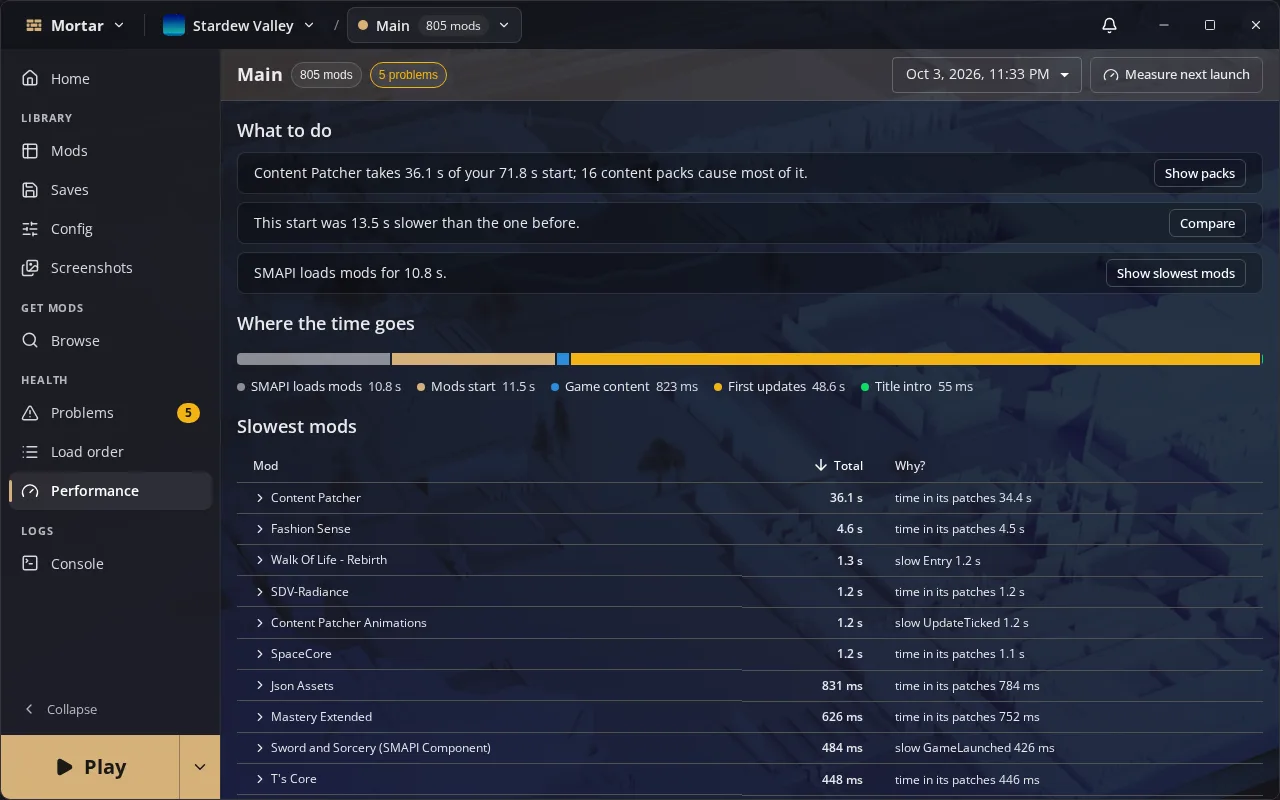
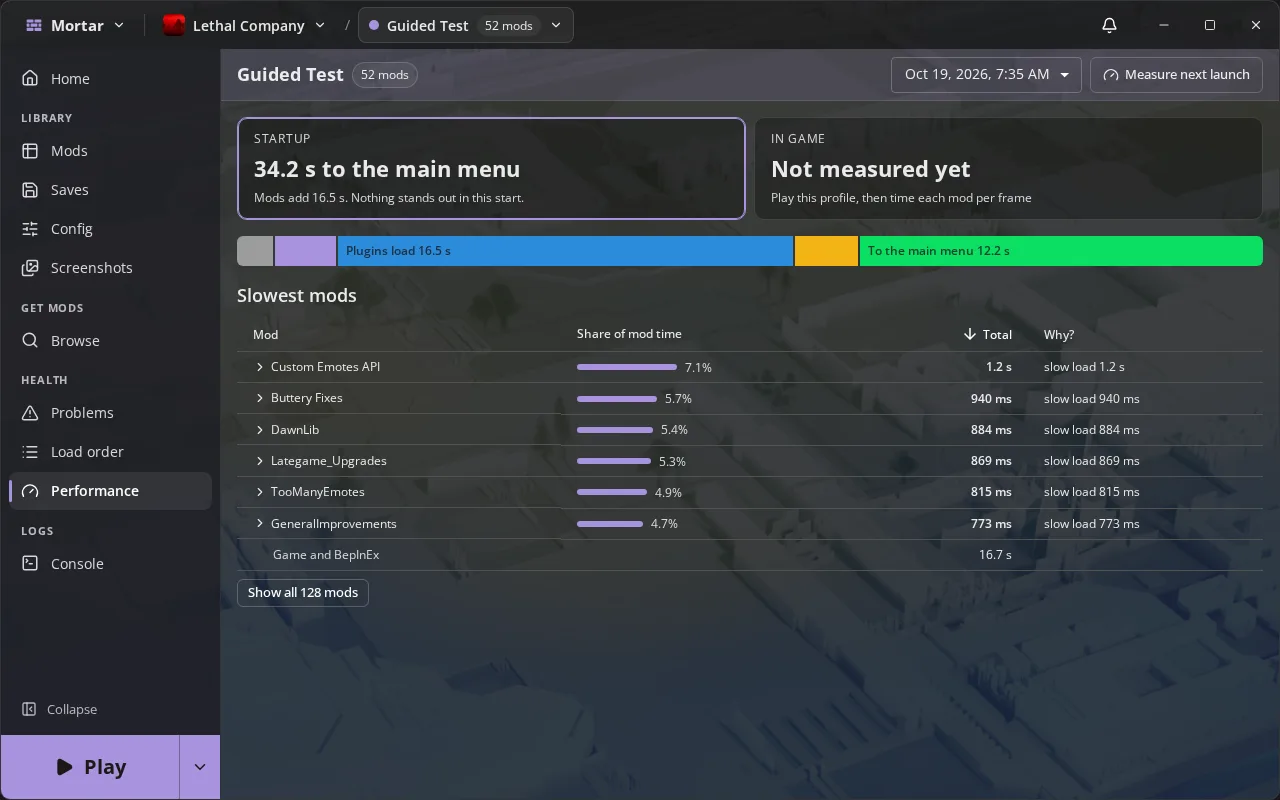
docs(site): 0.3.11 news post with Performance and patch-error tiles, captured by site scenes that wait out loaders

diff --git a/frontend/e2e/screens.ts b/frontend/e2e/screens.ts
@@ -45,11 +45,15 @@ async function shot(page: Page, name: string, steps: () => Promise<void>, file =
   try {
     await steps()
     // A list that is still loading, or a toast about the copied data, would be in the picture.
-    await page
-      .getByText('Loading…')
-      .first()
-      .waitFor({ state: 'hidden', timeout: 15_000 })
-      .catch(() => undefined)
+    for (const loader of [
+      page.getByText('Loading…'),
+      page.locator('.MuiSkeleton-root, .MuiCircularProgress-root, .MuiLinearProgress-root'),
+    ]) {
+      await loader
+        .first()
+        .waitFor({ state: 'hidden', timeout: 15_000 })
+        .catch(() => undefined)
+    }
     await page.waitForTimeout(TOAST_MS)
     const toasts = page.getByRole('region', { name: 'Notifications' })
     for (const dismiss of await toasts.getByRole('button', { name: 'Dismiss' }).all()) {
@@ -138,6 +142,8 @@ async function settings(page: Page, section: string) {
 
 const STARDEW = { game: 'Stardew Valley', name: 'Main' }
 const LETHAL = { game: 'Lethal Company', name: 'Main' }
+// The maintainer's measured profile, whose runs logged patch errors.
+const LETHAL_MEASURED = { game: 'Lethal Company', name: 'Guided Test' }
 
 // Steam Deck mode is the roomy theme a gamepad's first press turns on, so the scene drives a fake standard-mapping pad.
 const DPAD_DOWN = 13
@@ -210,8 +216,31 @@ const SITE: Scene[] = [
   {
     name: 'performance',
     ...DESK,
-    profile: STARDEW,
-    steps: (page) => click(page, 'tab', 'Performance'),
+    profile: LETHAL_MEASURED,
+    steps: async (page) => {
+      await click(page, 'tab', 'Performance')
+      await page.getByText('Slowest mods').waitFor({ timeout: STEP_MS })
+    },
+  },
+  {
+    name: 'patch-errors',
+    ...DESK,
+    profile: LETHAL_MEASURED,
+    steps: async (page) => {
+      await click(page, 'tab', 'Problems')
+      // Copied data may hold these errors dismissed; restoring them touches only the sandbox.
+      const dismissed = page.getByRole('tab', { name: /^Dismissed/ })
+      while ((await dismissed.count()) > 0) {
+        await dismissed.click({ timeout: STEP_MS })
+        await click(page, 'button', 'Restore')
+        await page.waitForTimeout(SETTLE_MS)
+      }
+      await click(page, 'tab', /^Errors while running/)
+      await page
+        .getByText(/threw it, at/)
+        .first()
+        .waitFor({ timeout: STEP_MS })
+    },
   },
   {
     name: 'deck',

diff --git a/README.md b/README.md
@@ -44,7 +44,7 @@ Prerequisites (including the `wails3` CLI built from the pinned Wails fork), bui
 ## Screenshots
 
 <table>
-<tr><td align="center"><img src="build/linux/screenshots/problems.png" alt="Problems tab explaining which mod wins each content conflict, with Disable and Make a pack win buttons" width="440"><br><sub>Problems: content conflicts explained, with one-click fixes</sub></td><td align="center"><img src="build/linux/screenshots/performance.png" alt="Performance tab: time to the title screen and each mod's startup cost" width="440"><br><sub>Performance: what each mod costs at startup</sub></td></tr>
+<tr><td align="center"><img src="build/linux/screenshots/problems.png" alt="Problems tab explaining which mod wins each content conflict, with Disable and Make a pack win buttons" width="440"><br><sub>Problems: content conflicts explained, with one-click fixes</sub></td><td align="center"><img src="build/linux/screenshots/performance.png" alt="Performance tab: time to the main menu, each phase of the start, and the slowest mods" width="440"><br><sub>Performance: what each mod costs at startup</sub></td></tr>
 <tr><td align="center" colspan="2"><img src="build/linux/screenshots/settings.png" alt="General settings: the antivirus that scans every mod before it is installed" width="600"><br><sub>Every mod scanned by your antivirus before it is installed</sub></td></tr>
 </table>
 

diff --git a/web/src/content/news/mortar-0-3-11.md b/web/src/content/news/mortar-0-3-11.md
@@ -1,0 +1,15 @@
+---
+kind: release
+version: 0.3.11
+title: "Startups explained, errors traced to their patch"
+summary: "Performance names each phase of a start and the slowest mods, an error while running names the Harmony patch and source line that threw it, imported profiles bring their local mods, and the AppImage runs on Linux Mint 21 and Ubuntu 22.04."
+highlights:
+  - area: Performance
+    title: Startup and in game
+    text: Each phase of a start is named on the bar, beside the six slowest mods and their share of mod time.
+    image: /img/performance.webp
+  - area: Problems
+    title: Errors traced to their patch
+    text: An error while running names the Harmony patch that threw it, the method it patched and the source line.
+    image: /img/patch-errors.webp
+---
